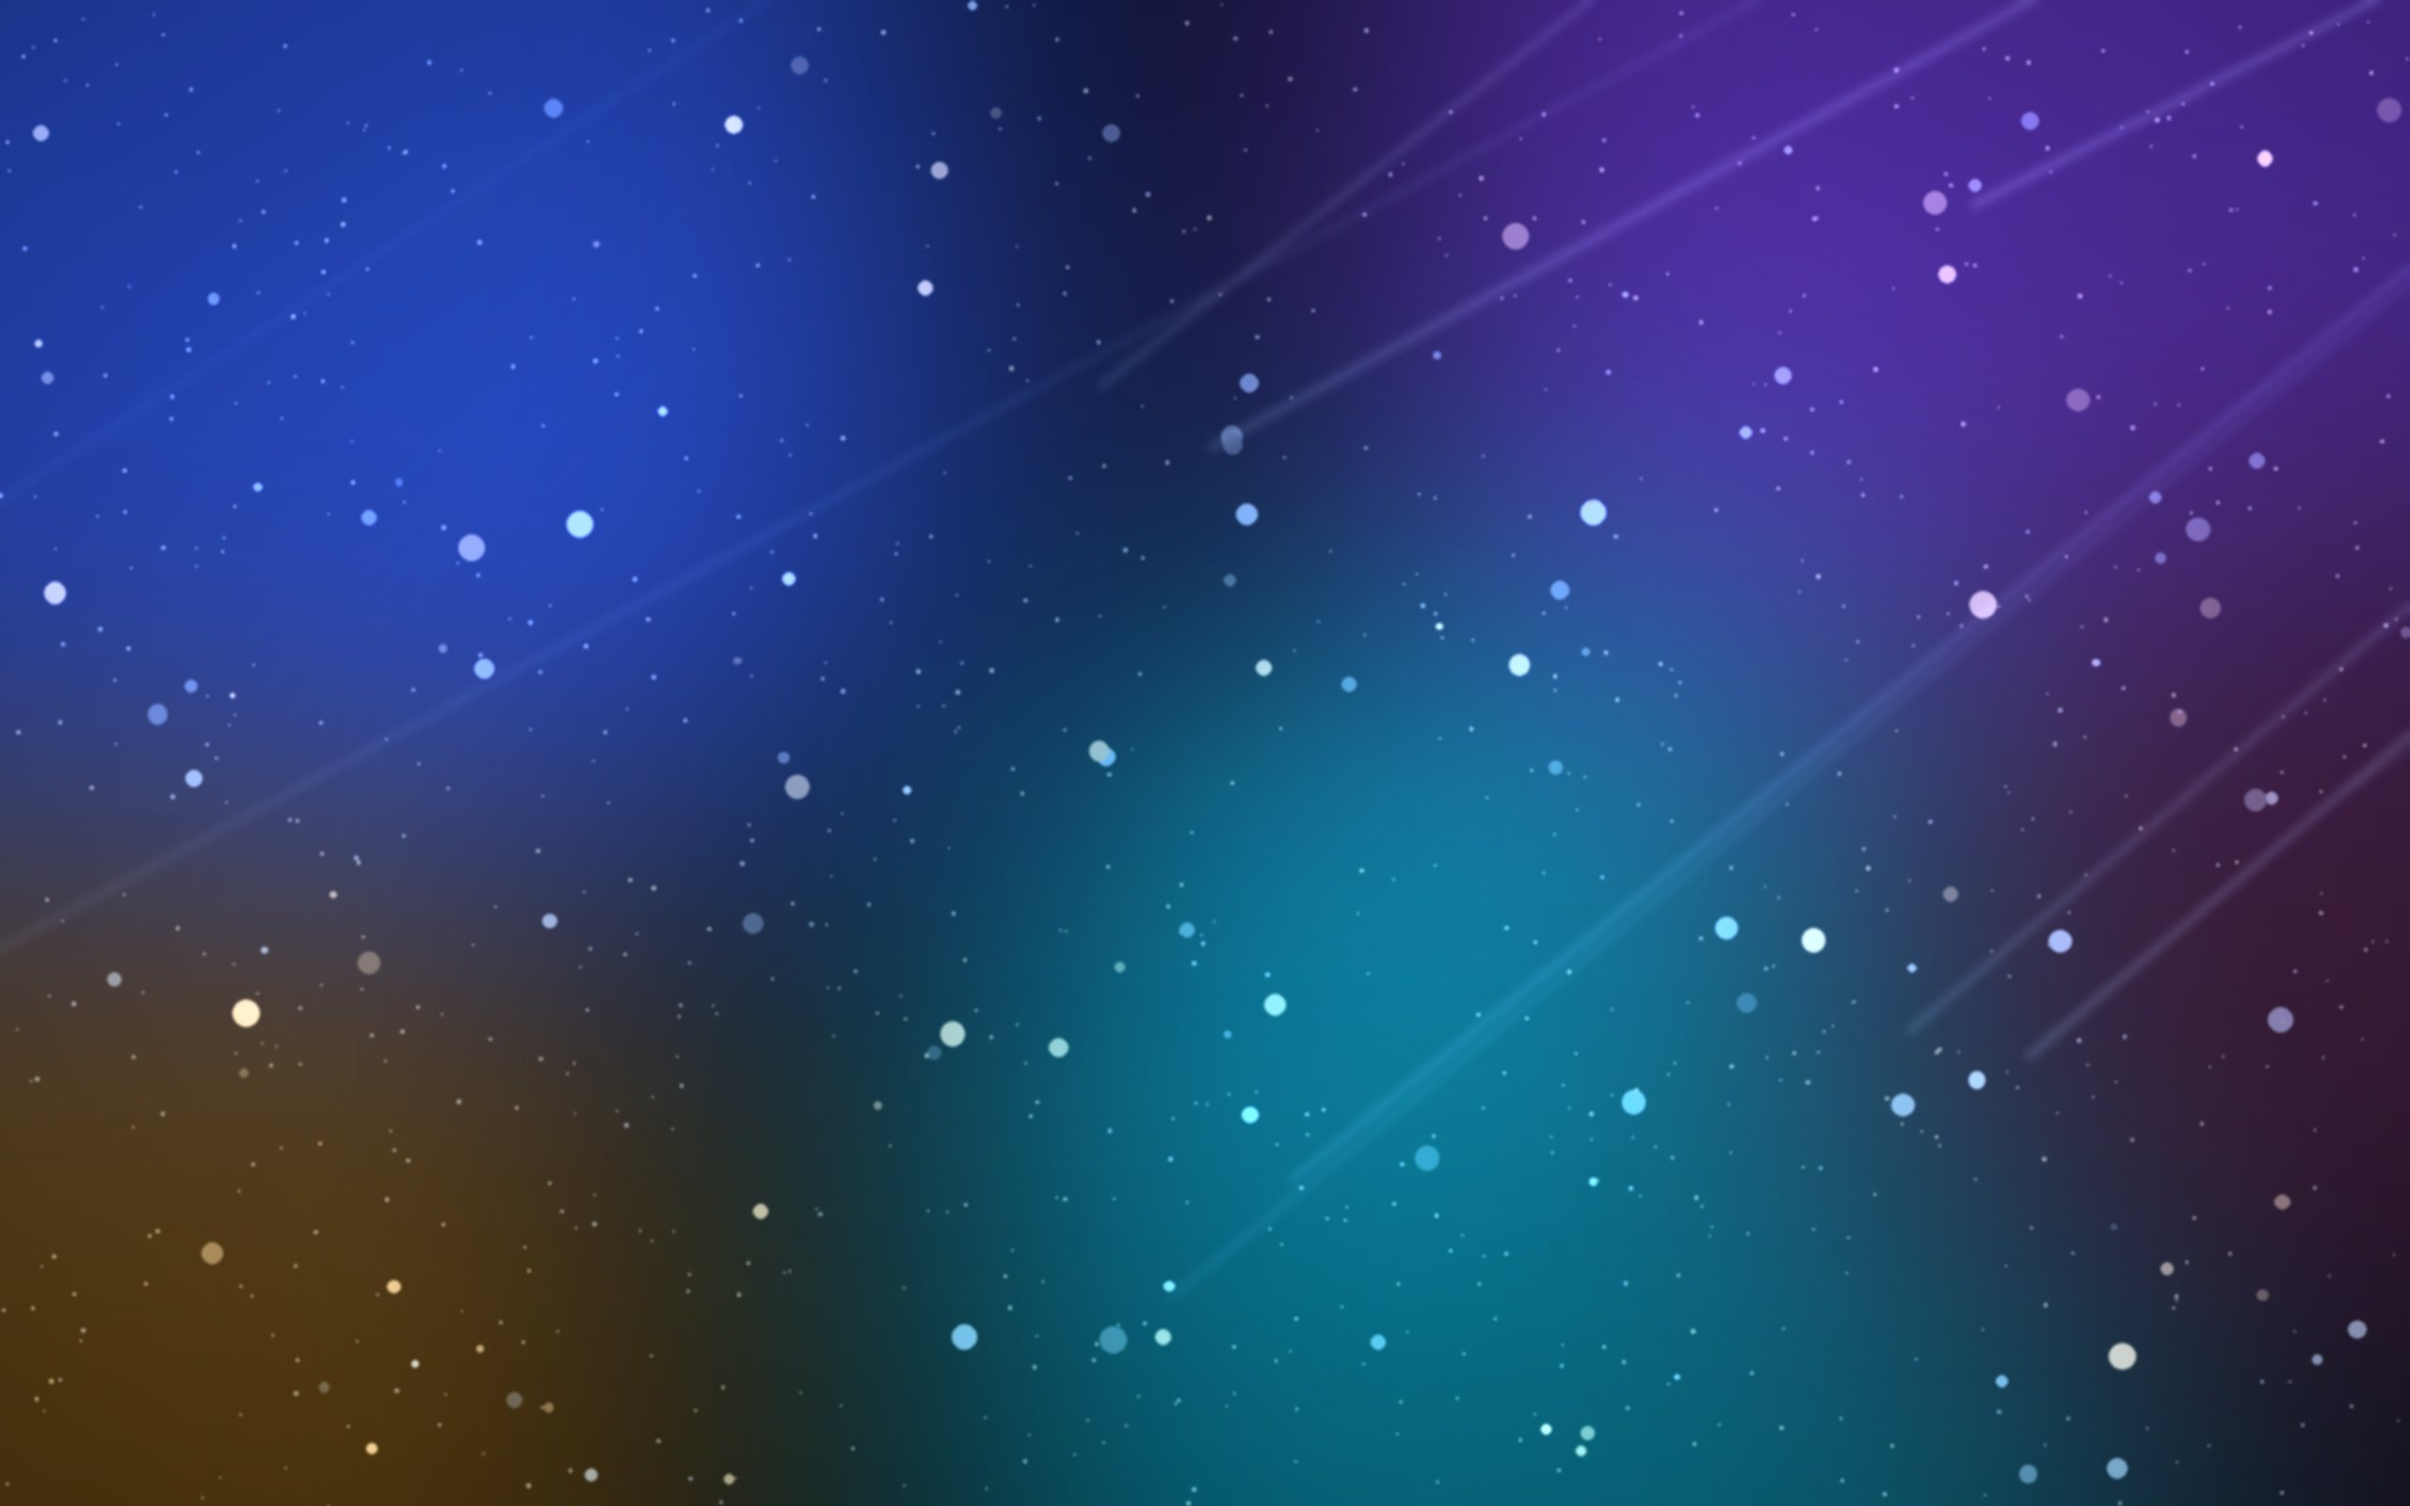
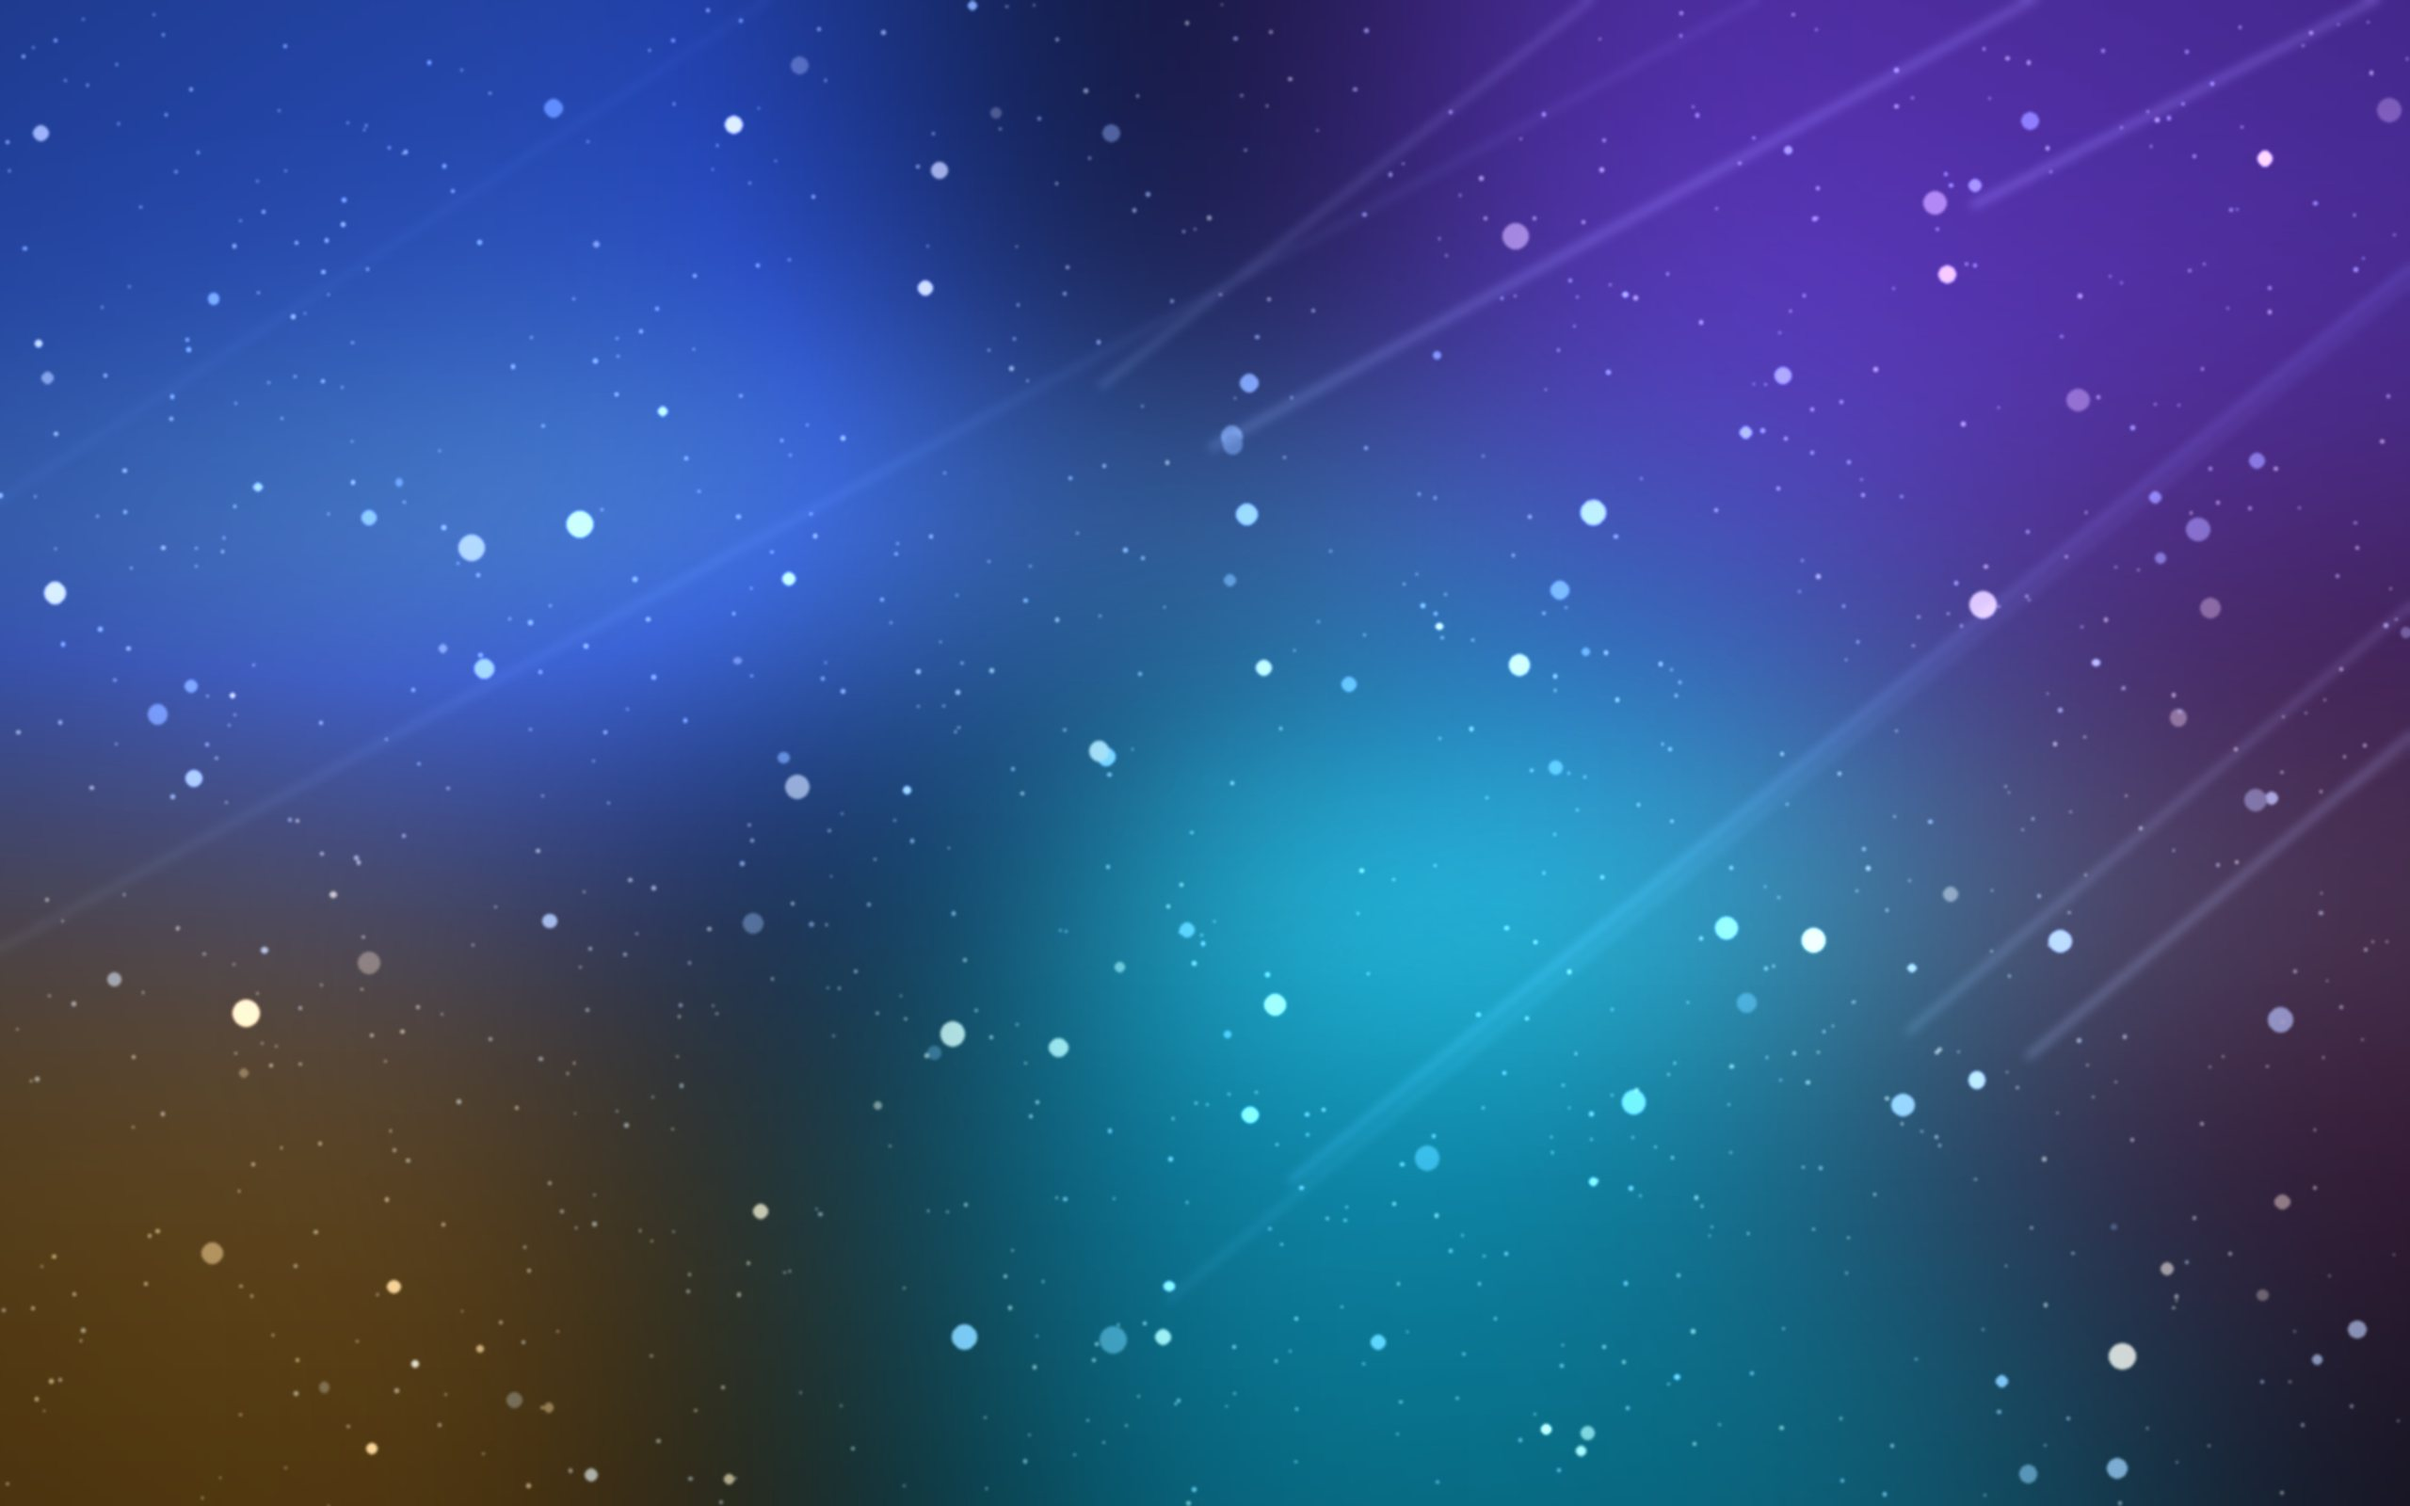
fix(demo): 漂移看不出效果 —— 换成真实元素 + 更大行程 + 更慢但可见的速度，并把壁纸提亮加光带

diff --git a/demo/overlay.js b/demo/overlay.js
@@ -93,46 +93,78 @@
   );
 
   /* ---------------------------------- 壁纸慢速随机漂移
-     目的不是「有动画」，而是让壁纸动起来 —— 玻璃窗口后面有东西在缓慢移动，
-     blur 才看得出来。所以幅度小、周期长：一次位移四十秒往上，
-     且还没走完就换下一个目标，动作永远不落停，也不会「一顿一顿」。 */
-  var root = document.documentElement;
+     目的不是「有动画」，而是让玻璃窗后面有东西在动 —— 有东西动，才看得出毛玻璃。
+     上一版每秒只挪 1~2px、幅度 ±100px：数值上确实在动，肉眼基本看不出来。
+     这一版改成随机游走：
+       每次目标 90~170px，22~34 秒走完（约 4~11px/s），没走完就换下一个目标，
+     所以永远在缓慢移动、又不会「一顿一顿」。用真实元素 + inline transform，
+     不依赖 var() 驱动 transform，Safari 上也一样会动。 */
+  var wall = document.createElement('div');
+  wall.className = 'demo-wall';
+  var host = document.body || document.documentElement;
+  host.insertBefore(wall, host.firstChild);
+
   var reduce = window.matchMedia && window.matchMedia('(prefers-reduced-motion: reduce)').matches;
+  var SCALE = 1.12;
+  var pos = { x: 0, y: 0, rot: 0 };
+  var lim = { x: 120, y: 100 };
   var driftTimer = 0;
 
-  function drift() {
-    clearTimeout(driftTimer);
-    if (reduce) {
-      root.style.setProperty('--demo-wall-x', '0px');
-      root.style.setProperty('--demo-wall-y', '0px');
-      root.style.setProperty('--demo-wall-rot', '0deg');
-      return;
-    }
-
-    // 幅度取短边的 12%（1440×900 上约 ±103px）。
-    // 但壁纸层只比视口大 9vmax，窄高视口（如 820×1000）按短边算会超出这个余量，
-    // 所以再按 inset 夹一次，留出旋转与亚像素的余量。
+  // 安全边界：壁纸层 inset 是 -12vmax，再放大 SCALE，剩下的余量才是能移动的行程。
+  // 旋转会把四个角甩出去，甩出的距离随元素对角线增长（大屏上能到 40px），
+  // 所以这里按实际尺寸算，不能用固定值。
+  function measure() {
     var w = window.innerWidth;
     var h = window.innerHeight;
-    var inset = Math.max(w, h) * 0.09;                 // 与 CSS 的 inset: -9vmax 对齐
-    var amp = Math.min(Math.min(w, h) * 0.12, inset - 26);
-    var x = (Math.random() * 2 - 1) * amp;
-    var y = (Math.random() * 2 - 1) * amp;
-    var rot = (Math.random() * 2 - 1) * 0.7;          // 轻微旋转，避免纯平移的机械感
-    var dur = 52 + Math.random() * 34;                // 52~86 秒走到目标点，约 1.5px/s
-
-    root.style.setProperty('--demo-wall-dur', dur.toFixed(1) + 's');
-    root.style.setProperty('--demo-wall-x', x.toFixed(1) + 'px');
-    root.style.setProperty('--demo-wall-y', y.toFixed(1) + 'px');
-    root.style.setProperty('--demo-wall-rot', rot.toFixed(2) + 'deg');
-
-    // 提前 15% 换目标：过渡还没结束就改方向，运动是连续的，不会走走停停
-    driftTimer = setTimeout(drift, dur * 850);
+    var inset = Math.max(w, h) * 0.12;                 // 与 CSS 的 inset: -12vmax 对齐
+    var ew = w + inset * 2;
+    var eh = h + inset * 2;
+    var rotSlack = Math.sqrt(ew * ew + eh * eh) / 2 * Math.sin(1.2 * Math.PI / 180) + 8;
+    lim.x = Math.max(40, (ew * SCALE - w) / 2 - rotSlack);
+    lim.y = Math.max(30, (eh * SCALE - h) / 2 - rotSlack);
   }
 
-  drift();
+  function apply(duration) {
+    wall.style.transition = duration > 0
+      ? 'transform ' + duration.toFixed(1) + 's cubic-bezier(.42, .03, .36, 1)'
+      : 'none';
+    wall.style.transform =
+      'translate3d(' + pos.x.toFixed(1) + 'px,' + pos.y.toFixed(1) + 'px,0) ' +
+      'rotate(' + pos.rot.toFixed(2) + 'deg) scale(' + SCALE + ')';
+  }
+
+  function drift() {
+    var w = window.innerWidth;
+    var h = window.innerHeight;
+    var ang = Math.random() * Math.PI * 2;
+    var dist = Math.min(w, h) * (0.10 + Math.random() * 0.09);   // 90~170px @900
+    var nx = pos.x + Math.cos(ang) * dist;
+    var ny = pos.y + Math.sin(ang) * dist;
+
+    // 撞到边界就折返到对侧，路径不会在角落里反复蹭
+    if (Math.abs(nx) > lim.x) nx = -nx * (0.45 + Math.random() * 0.35);
+    if (Math.abs(ny) > lim.y) ny = -ny * (0.45 + Math.random() * 0.35);
+    pos.x = Math.max(-lim.x, Math.min(lim.x, nx));
+    pos.y = Math.max(-lim.y, Math.min(lim.y, ny));
+    pos.rot = -1.1 + Math.random() * 2.2;
+
+    var dur = 22 + Math.random() * 12;                 // 22~34 秒，慢但不至于看不出来
+    apply(dur);
+    // 82% 就换目标：过渡还没结束就改方向，看上去是一直在飘，不会走走停停
+    clearTimeout(driftTimer);
+    driftTimer = setTimeout(drift, dur * 820);
+  }
+
+  measure();
+  apply(0);
+  if (!reduce) {
+    driftTimer = setTimeout(drift, 200);
+  }
+
   window.addEventListener('resize', function () {
-    // 视口变了重新取一次幅度，免得窄屏上位移过大露出边缘
-    drift();
+    measure();
+    pos.x = Math.max(-lim.x, Math.min(lim.x, pos.x));
+    pos.y = Math.max(-lim.y, Math.min(lim.y, pos.y));
+    apply(0.8);
   });
 })();

diff --git a/demo/overlay.css b/demo/overlay.css
@@ -14,22 +14,20 @@ html[data-demo] {
      调到 .70，壁纸能透上来，毛玻璃才有存在感。 */
   --shell-base: .70;
 
-  /* 壁纸由 ::before 铺（要能被 transform 驱动），这里只留兜底色 */
+  /* 壁纸由 .demo-wall 铺（JS 插入的真实元素），这里只留兜底色 */
   background-color: #05070d;
 }
 
-/* 壁纸层：比视口更大一圈，靠 JS 慢速随机位移。
-   inset 用负值放大，位移和轻微旋转都不会露出边缘。 */
-html[data-demo]::before {
-  content: "";
+/* 壁纸层：比视口更大一圈，靠 JS 慢速随机平移。
+   用真实元素而不是 ::before —— 直接改 element.style.transform 最稳，
+   不依赖 var() 去驱动 transform（伪元素 + 自定义属性这条路上，
+   个别 Safari 版本不会为变化后的值补间，表现就是「一动不动」）。 */
+html[data-demo] .demo-wall {
   position: fixed;
-  inset: -9vmax;
+  inset: -12vmax;
   z-index: -1;
   background: #05070d url("wallpaper.jpg") center / cover no-repeat;
-  transform: translate3d(var(--demo-wall-x, 0px), var(--demo-wall-y, 0px), 0)
-             rotate(var(--demo-wall-rot, 0deg))
-             scale(1.02);
-  transition: transform var(--demo-wall-dur, 70s) cubic-bezier(.37, .02, .32, 1);
+  transform: scale(1.12);
   will-change: transform;
   pointer-events: none;
 }

diff --git a/Scripts/gen-wallpaper.py b/Scripts/gen-wallpaper.py
@@ -39,7 +39,7 @@ for y in range(H):
               int(13 + 11 * (1 - t) + 7 * k),
               int(24 + 24 * (1 - t) + 12 * k)),
     )
-base = mul(base, 0.72)
+base = mul(base, 0.92)
 
 # ---------- 2. 低频：五块大色团 ----------
 blobs = [
@@ -57,7 +57,22 @@ for cx, cy, rr, col, amt in blobs:
     dl.ellipse([x - r, y - r, x + r, y + r], fill=tuple(int(c * amt) for c in col))
 layer = layer.filter(ImageFilter.GaussianBlur(210))
 
-img = ImageChops.add(base, mul(layer, 0.92))
+img = ImageChops.add(base, mul(layer, 1.02))
+
+# ---------- 2.5 两束大光带：大尺度、高亮度，用来「看得见在动」
+# 玻璃后面只有小尺度细节在动，肉眼很难察觉；一条亮带的缓慢横移一眼就能看出来。
+glow = Image.new("RGB", (W, H), (0, 0, 0))
+dg = ImageDraw.Draw(glow)
+for cx, cy, rx, ry, col, amt in [
+    (0.30, 0.34, 0.34, 0.10, (120, 190, 255), 0.30),
+    (0.72, 0.60, 0.30, 0.09, (110, 240, 220), 0.22),
+]:
+    dg.ellipse(
+        [(cx - rx) * W, (cy - ry) * H, (cx + rx) * W, (cy + ry) * H],
+        fill=tuple(int(c * amt) for c in col),
+    )
+glow = glow.filter(ImageFilter.GaussianBlur(120))
+img = ImageChops.add(img, glow)
 
 # ---------- 3. 暗角：中心偏上最亮，四角压下去 ----------
 rad = Image.radial_gradient("L").resize((int(W * 1.45), int(H * 1.55)), Image.LANCZOS)
